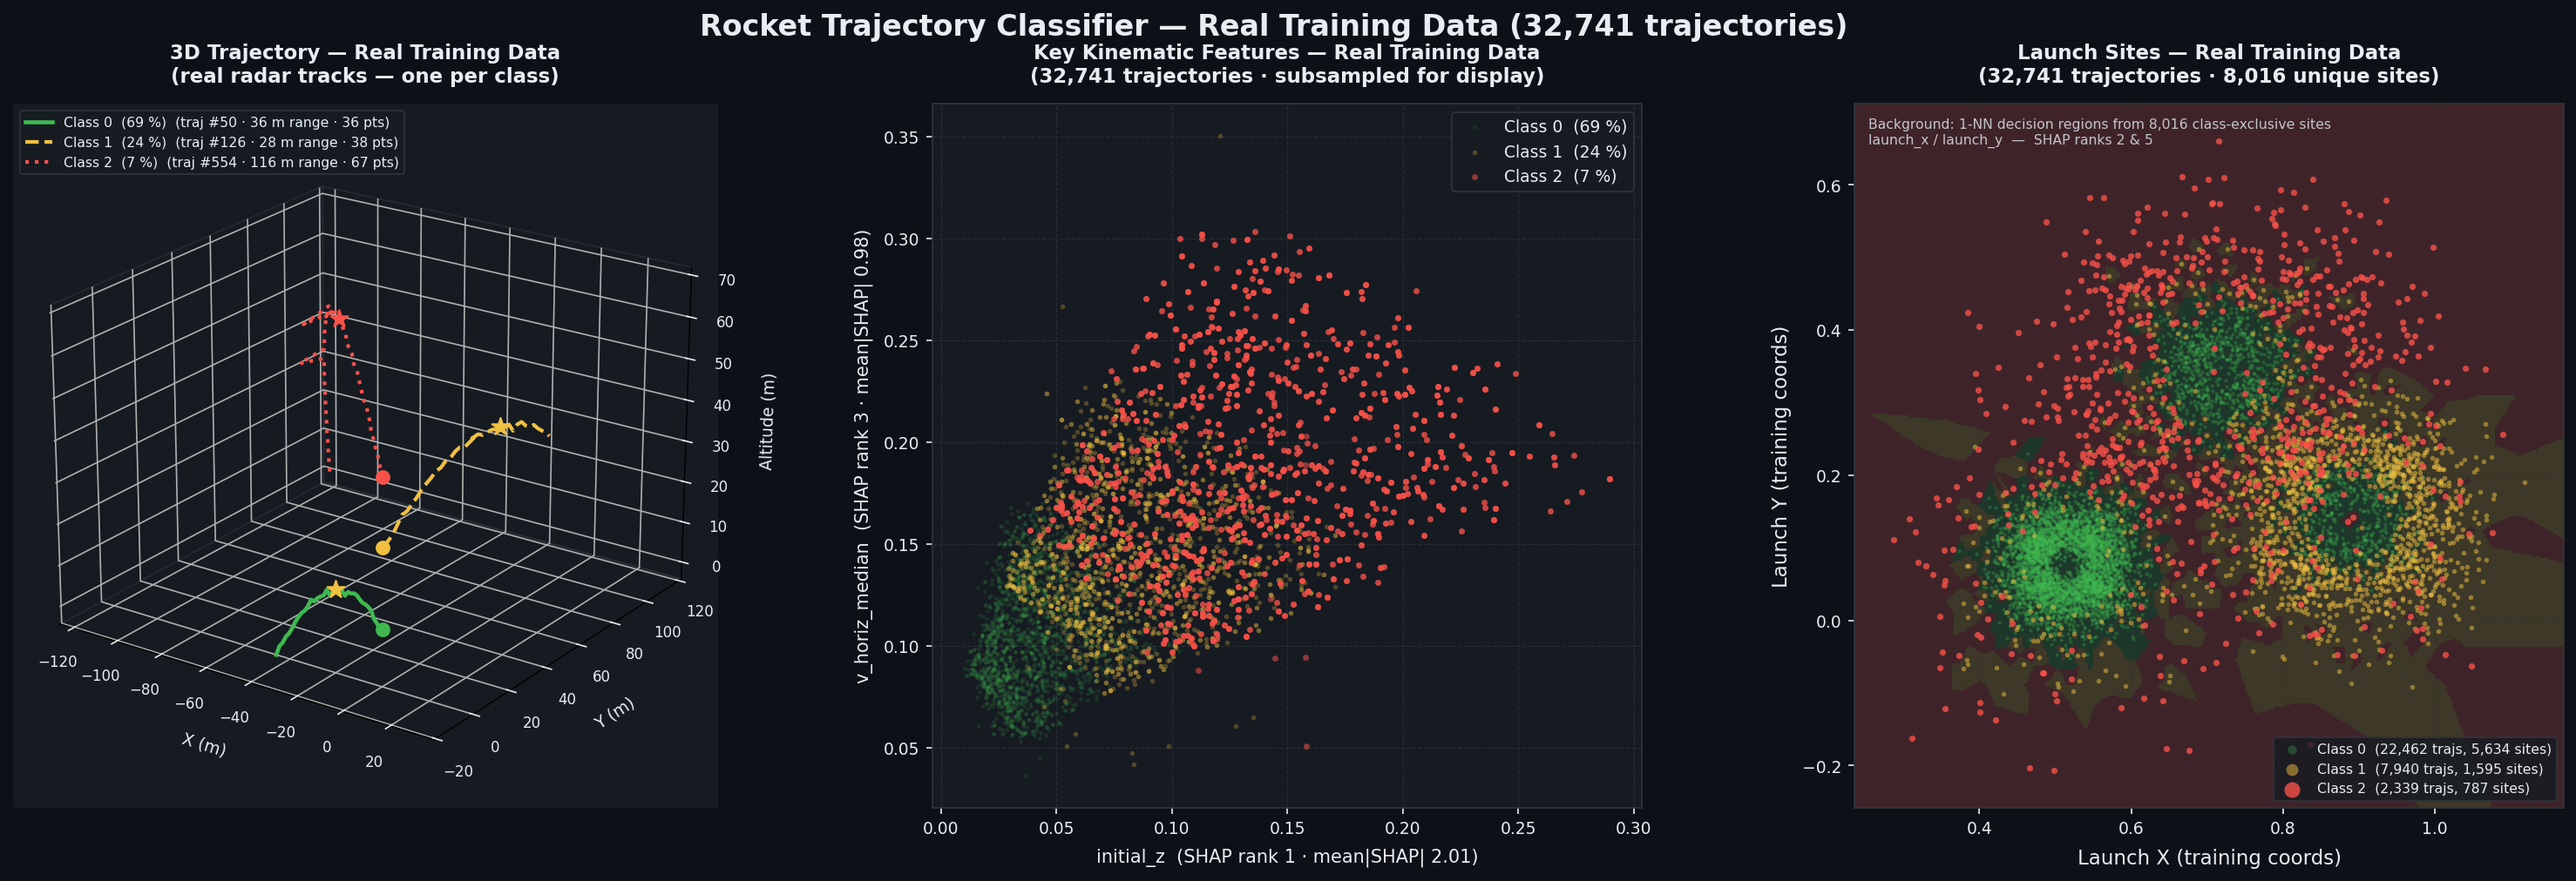
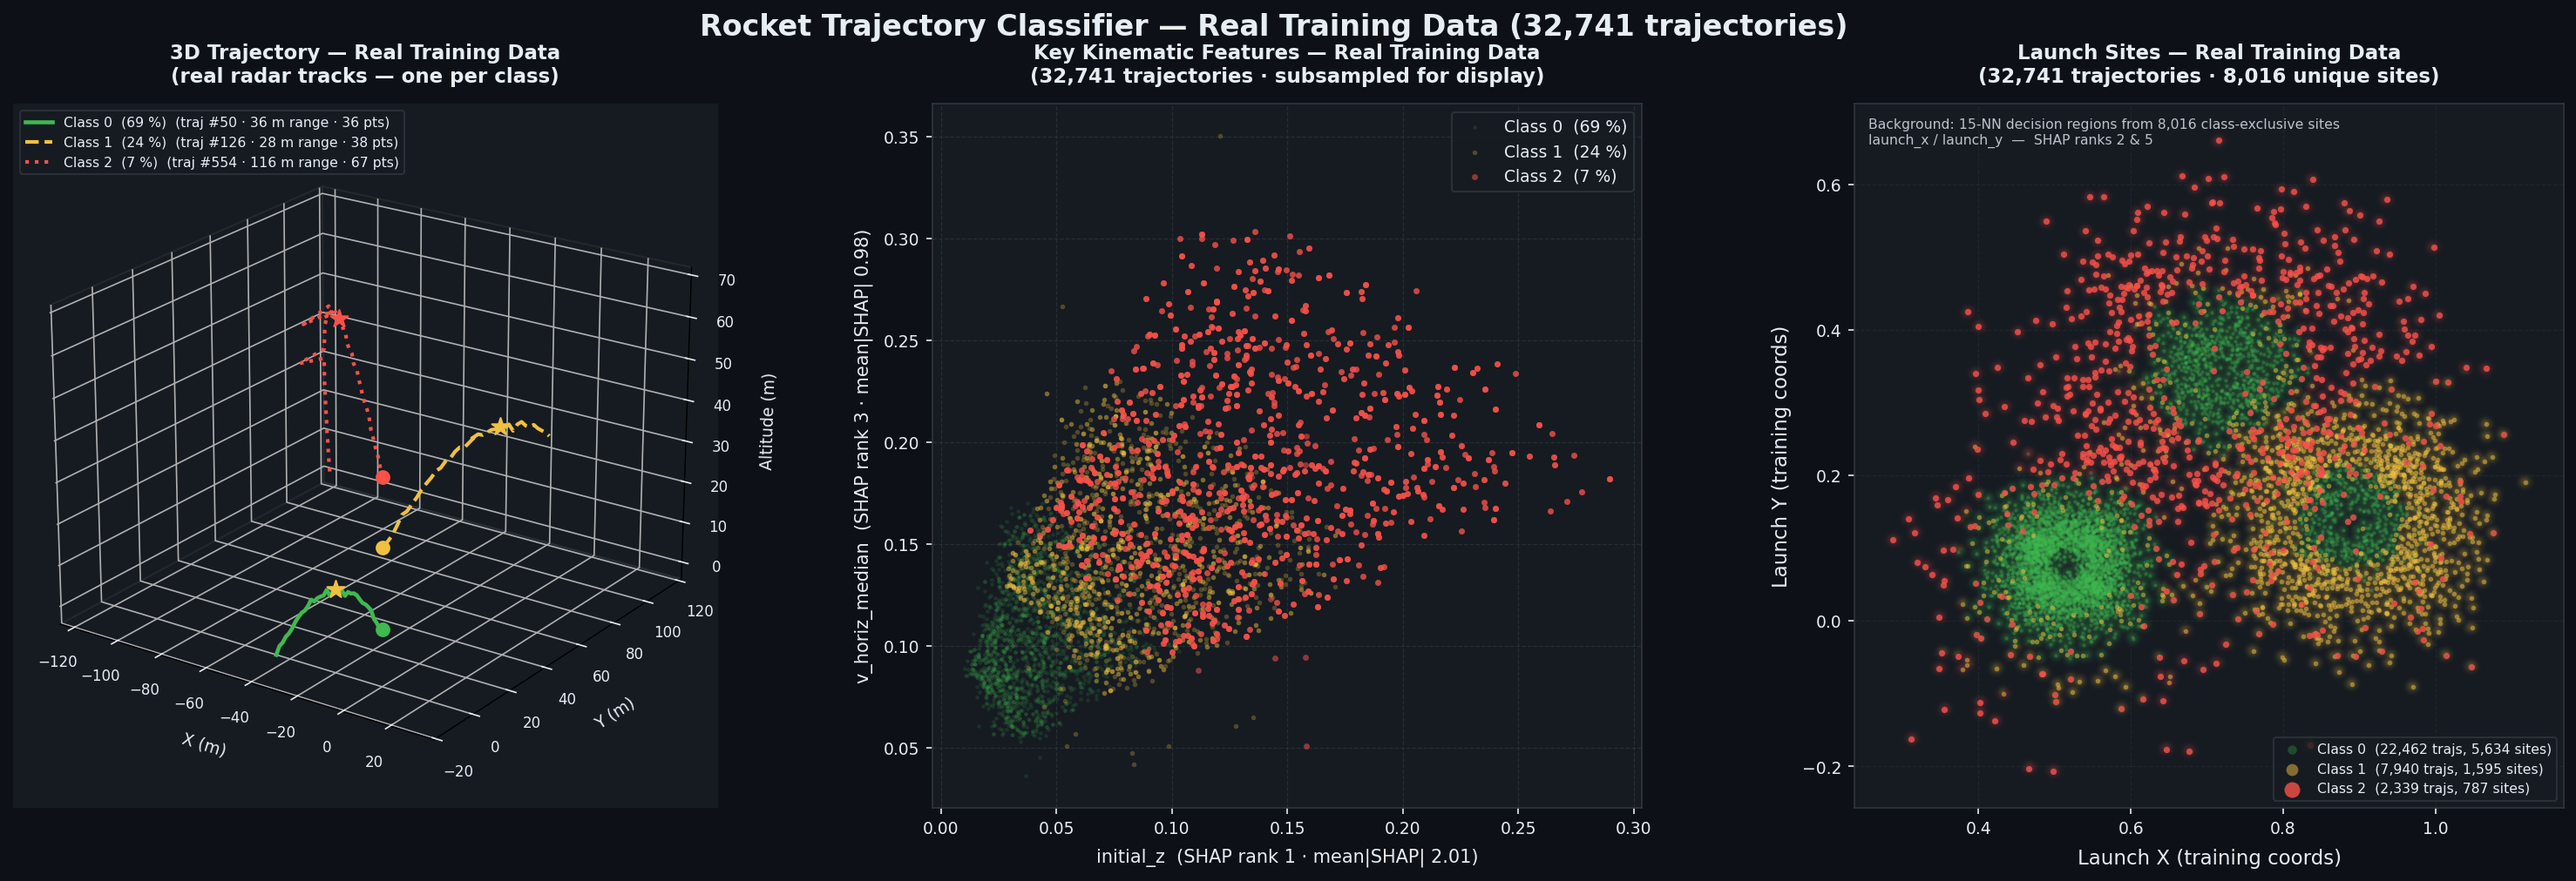
viz: add distance mask to right-panel decision background
Replaces flat pcolormesh with an RGBA imshow whose alpha channel fades
to zero beyond ~4x the median site spacing.  Prevents Class 2 (most
spatially dispersed) from flooding the empty periphery with red; only
grid cells near actual training sites are lit.

Changed region(s): [[0.7158, 0.0919, 0.9959, 0.919]]

diff --git a/research/visualize.py b/research/visualize.py
@@ -14,12 +14,12 @@ Generates ``assets/demo.png`` containing three subplots:
               Per-class 2-sigma covariance ellipses show the class-conditional
               distributions.  Both features are in ``SELECTED_FEATURES`` and
               are used by the production model.
-    - Right:  Launch-site decision map — a 1-NN classifier trained on the
+    - Right:  Launch-site decision map — a 15-NN classifier trained on the
               8,016 class-exclusive (launch_x, launch_y) sites paints the
-              background to show which class "owns" each location.  Unique
-              sites are scattered on top.  Directly visualises why launch_x
-              and launch_y are SHAP ranks 2 and 5: knowing where a rocket
-              launched almost determines its class.
+              background to show the dominant class in each neighbourhood.
+              Unique sites are scattered on top.  Directly visualises why
+              launch_x and launch_y are SHAP ranks 2 and 5: knowing where
+              a rocket launched almost determines its class.
 
 All three panels require ``cache/cache_train_features.parquet`` and/or
 ``data/train.csv`` (run ``make download-all`` to fetch both).
@@ -329,30 +329,59 @@ def make_demo_plot(output_path: Path) -> None:
     ax_s.grid(True, color=GRID_COLOR, linewidth=0.6, linestyle="--", alpha=0.4)
 
     if launch_df is not None:
-        from matplotlib.colors import ListedColormap
         from sklearn.neighbors import KNeighborsClassifier
 
         n_total = len(launch_df)
         class_counts = launch_df["label"].value_counts().sort_index().to_dict()
 
-        # ── Decision background: 1-NN on unique sites → class ────────────────
-        # Paints a colour field showing which class "owns" each location.
-        # Because sites are class-exclusive, 1-NN accuracy is ~100% — this
-        # directly visualises why launch_x/y are SHAP ranks 2 & 5.
+        # ── Decision background: 15-NN on unique sites → class ───────────────
+        # Shows the dominant class in each neighbourhood, faded out in the
+        # empty periphery so only regions near actual training sites are lit.
         unique_sites = launch_df[["launch_x", "launch_y", "label"]].drop_duplicates(
             subset=["launch_x", "launch_y"]
         )
-        knn = KNeighborsClassifier(n_neighbors=1, algorithm="kd_tree")
-        knn.fit(unique_sites[["launch_x", "launch_y"]].values, unique_sites["label"].values)
+        site_xy = unique_sites[["launch_x", "launch_y"]].values
+        site_labels = unique_sites["label"].values
+
+        knn = KNeighborsClassifier(n_neighbors=15, algorithm="kd_tree")
+        knn.fit(site_xy, site_labels)
 
         margin = 0.05
         x0, x1 = launch_df["launch_x"].min() - margin, launch_df["launch_x"].max() + margin
         y0, y1 = launch_df["launch_y"].min() - margin, launch_df["launch_y"].max() + margin
         xx, yy = np.meshgrid(np.linspace(x0, x1, 350), np.linspace(y0, y1, 350))
-        Z = knn.predict(np.c_[xx.ravel(), yy.ravel()]).reshape(xx.shape)
+        grid_pts = np.c_[xx.ravel(), yy.ravel()]
+        Z = knn.predict(grid_pts).reshape(xx.shape)
 
-        cmap_bg = ListedColormap([GREEN, GOLD, RED])
-        ax_s.pcolormesh(xx, yy, Z, cmap=cmap_bg, alpha=0.18, zorder=1, shading="auto")
+        # Distance-based alpha: fade to 0 beyond ~4x the median site spacing
+        # so the empty outer margin stays dark instead of red.
+        from sklearn.neighbors import NearestNeighbors
+
+        nn1 = NearestNeighbors(n_neighbors=2, algorithm="kd_tree").fit(site_xy)
+        median_spacing = float(np.median(nn1.kneighbors(site_xy)[0][:, 1]))
+        fade_scale = median_spacing * 4
+        dists_grid = nn1.kneighbors(grid_pts, n_neighbors=1)[0].reshape(xx.shape)
+        alpha_grid = (0.30 * np.exp(-((dists_grid / fade_scale) ** 2))).clip(0, 0.30)
+
+        class_rgb = {
+            0: tuple(int(GREEN.lstrip("#")[i : i + 2], 16) / 255 for i in (0, 2, 4)),
+            1: tuple(int(GOLD.lstrip("#")[i : i + 2], 16) / 255 for i in (0, 2, 4)),
+            2: tuple(int(RED.lstrip("#")[i : i + 2], 16) / 255 for i in (0, 2, 4)),
+        }
+        h, w = xx.shape
+        rgba = np.zeros((h, w, 4), dtype=np.float32)
+        for cls, rgb in class_rgb.items():
+            rgba[Z == cls, :3] = rgb
+        rgba[:, :, 3] = alpha_grid
+
+        ax_s.imshow(
+            rgba,
+            extent=[x0, x1, y0, y1],
+            origin="lower",
+            aspect="auto",
+            interpolation="bilinear",
+            zorder=1,
+        )
 
         # ── Scatter: unique sites per class on top ────────────────────────────
         sizes = {0: 4, 1: 7, 2: 12}
@@ -379,7 +408,7 @@ def make_demo_plot(output_path: Path) -> None:
         ax_s.text(
             0.02,
             0.98,
-            f"Background: 1-NN decision regions from {n_unique:,} class-exclusive sites\n"
+            f"Background: 15-NN decision regions from {n_unique:,} class-exclusive sites\n"
             "launch_x / launch_y  —  SHAP ranks 2 & 5",
             transform=ax_s.transAxes,
             color=TEXT_COLOR,
